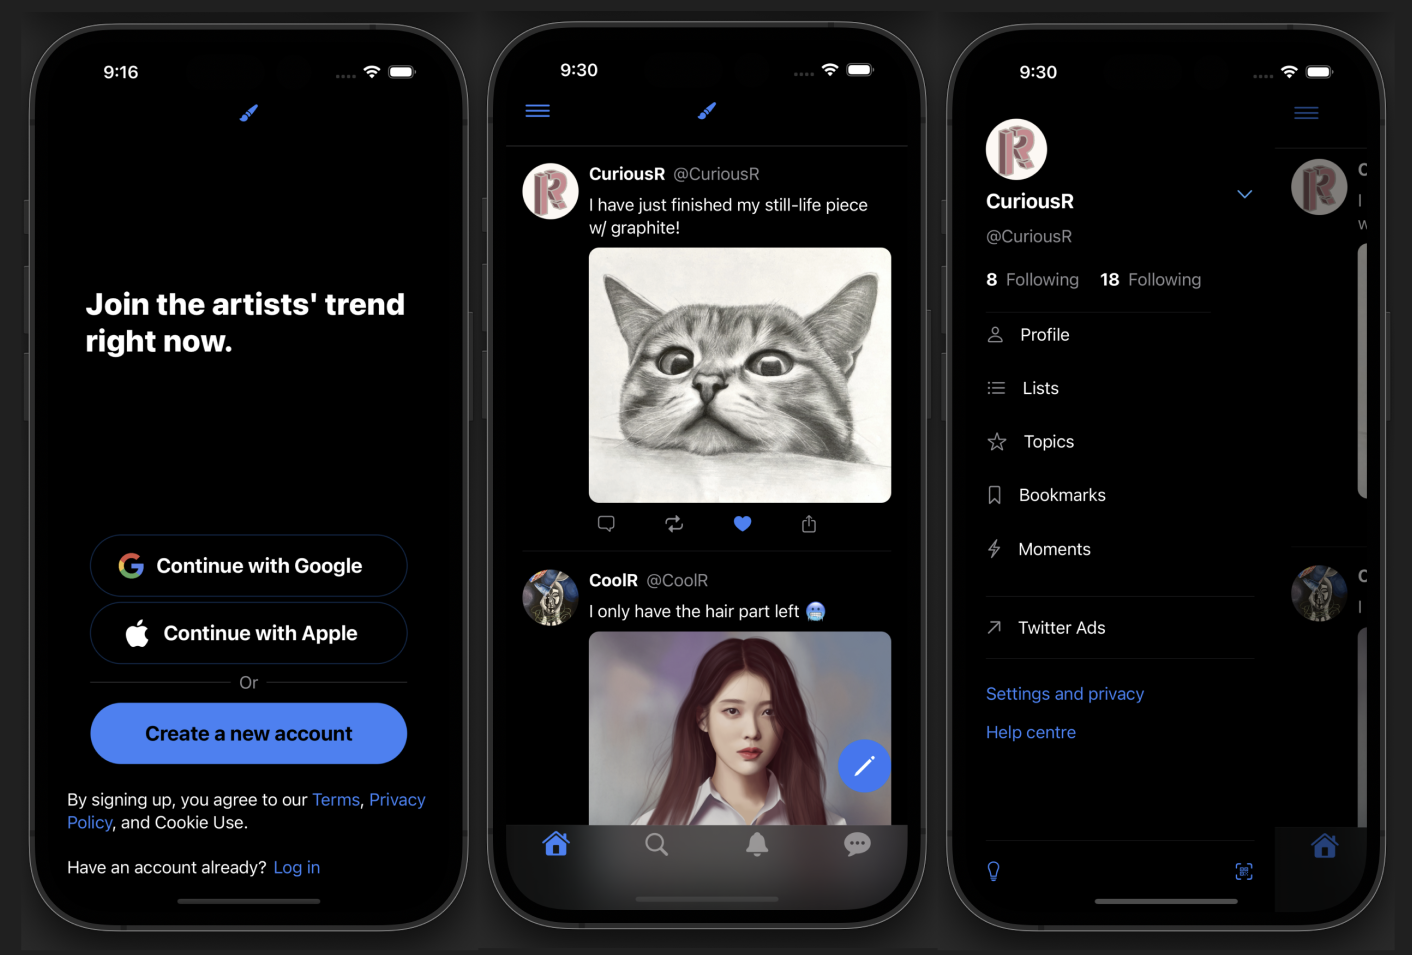
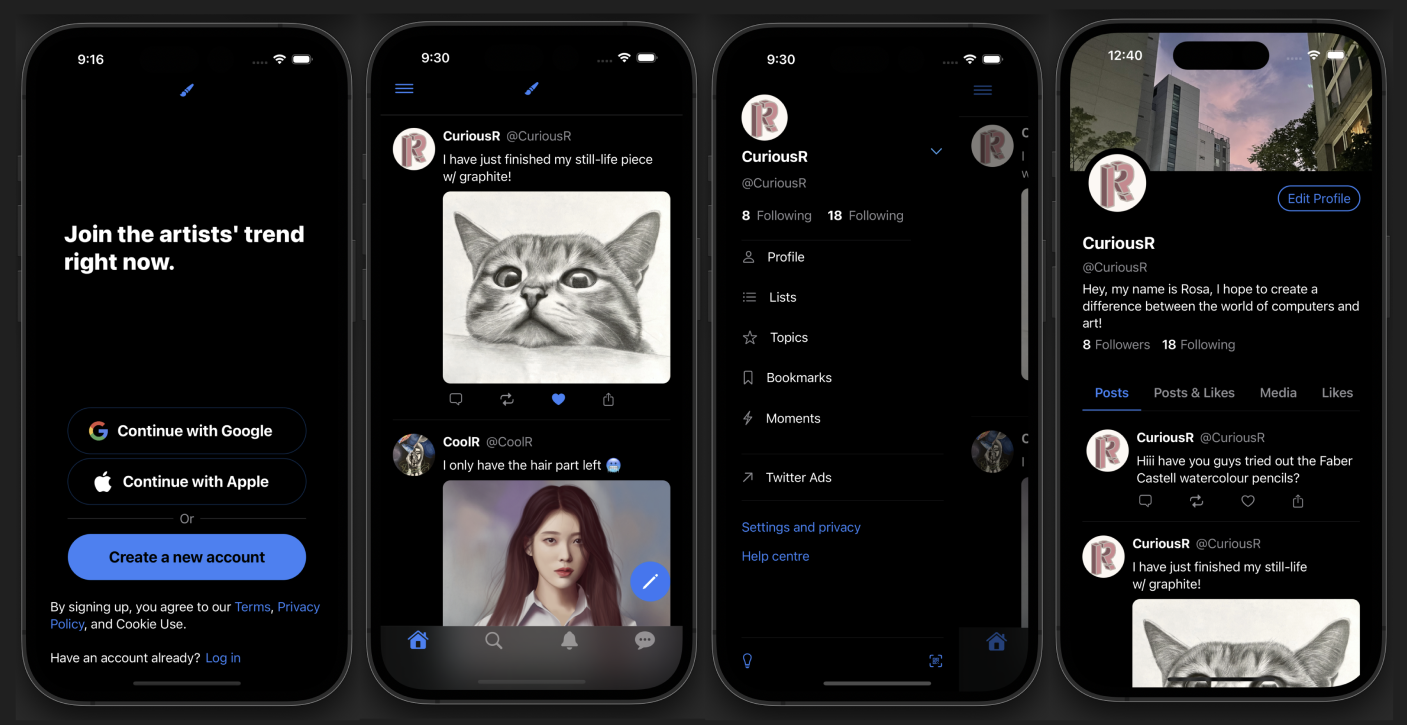
readme update for app part

diff --git a/README.md b/README.md
@@ -15,12 +15,21 @@ As an artist myself, I have always wondered that, so I have decided to make one!
 - Incorporated smooth **animations** on gestures and **light and dark modes** for a more engaging user interaction
 
 #### Let's look at Artare!
-![register](/readme_pics/register.png)
 Here is the register page that new users will first encounter :relieved:
+<img src="/readme_pics/register.png" width="300"></img>
 
-![login](/readme_pics/login.png)
 If user is not new to Artare, they can log in with the [Log in]() button on the welcome page :eyes:
+<img src="/readme_pics/login.png" width="300"></img>
 
-![main](/readme_pics/main.png)
 This is what the main components of Artare looks like!
 There is the home page where users can view other users posts, slide menu that operates both on tap of the hamburger icon and slide gesture, and the posting page. :blush:
+<img src="/readme_pics/main.png" width="500"></img>
+
+The profile view looks like this :sleepy:
+<img src="/readme_pics/profile.png" width="300"></img>
+
+Here are pages such as search, notifications, and messages!
+<img src="/readme_pics/search.png" width="500"></img>
+
+Finally, this is the dark mode version of Artare!
+<img src="/readme_pics/dark.png" width="500"></img>
